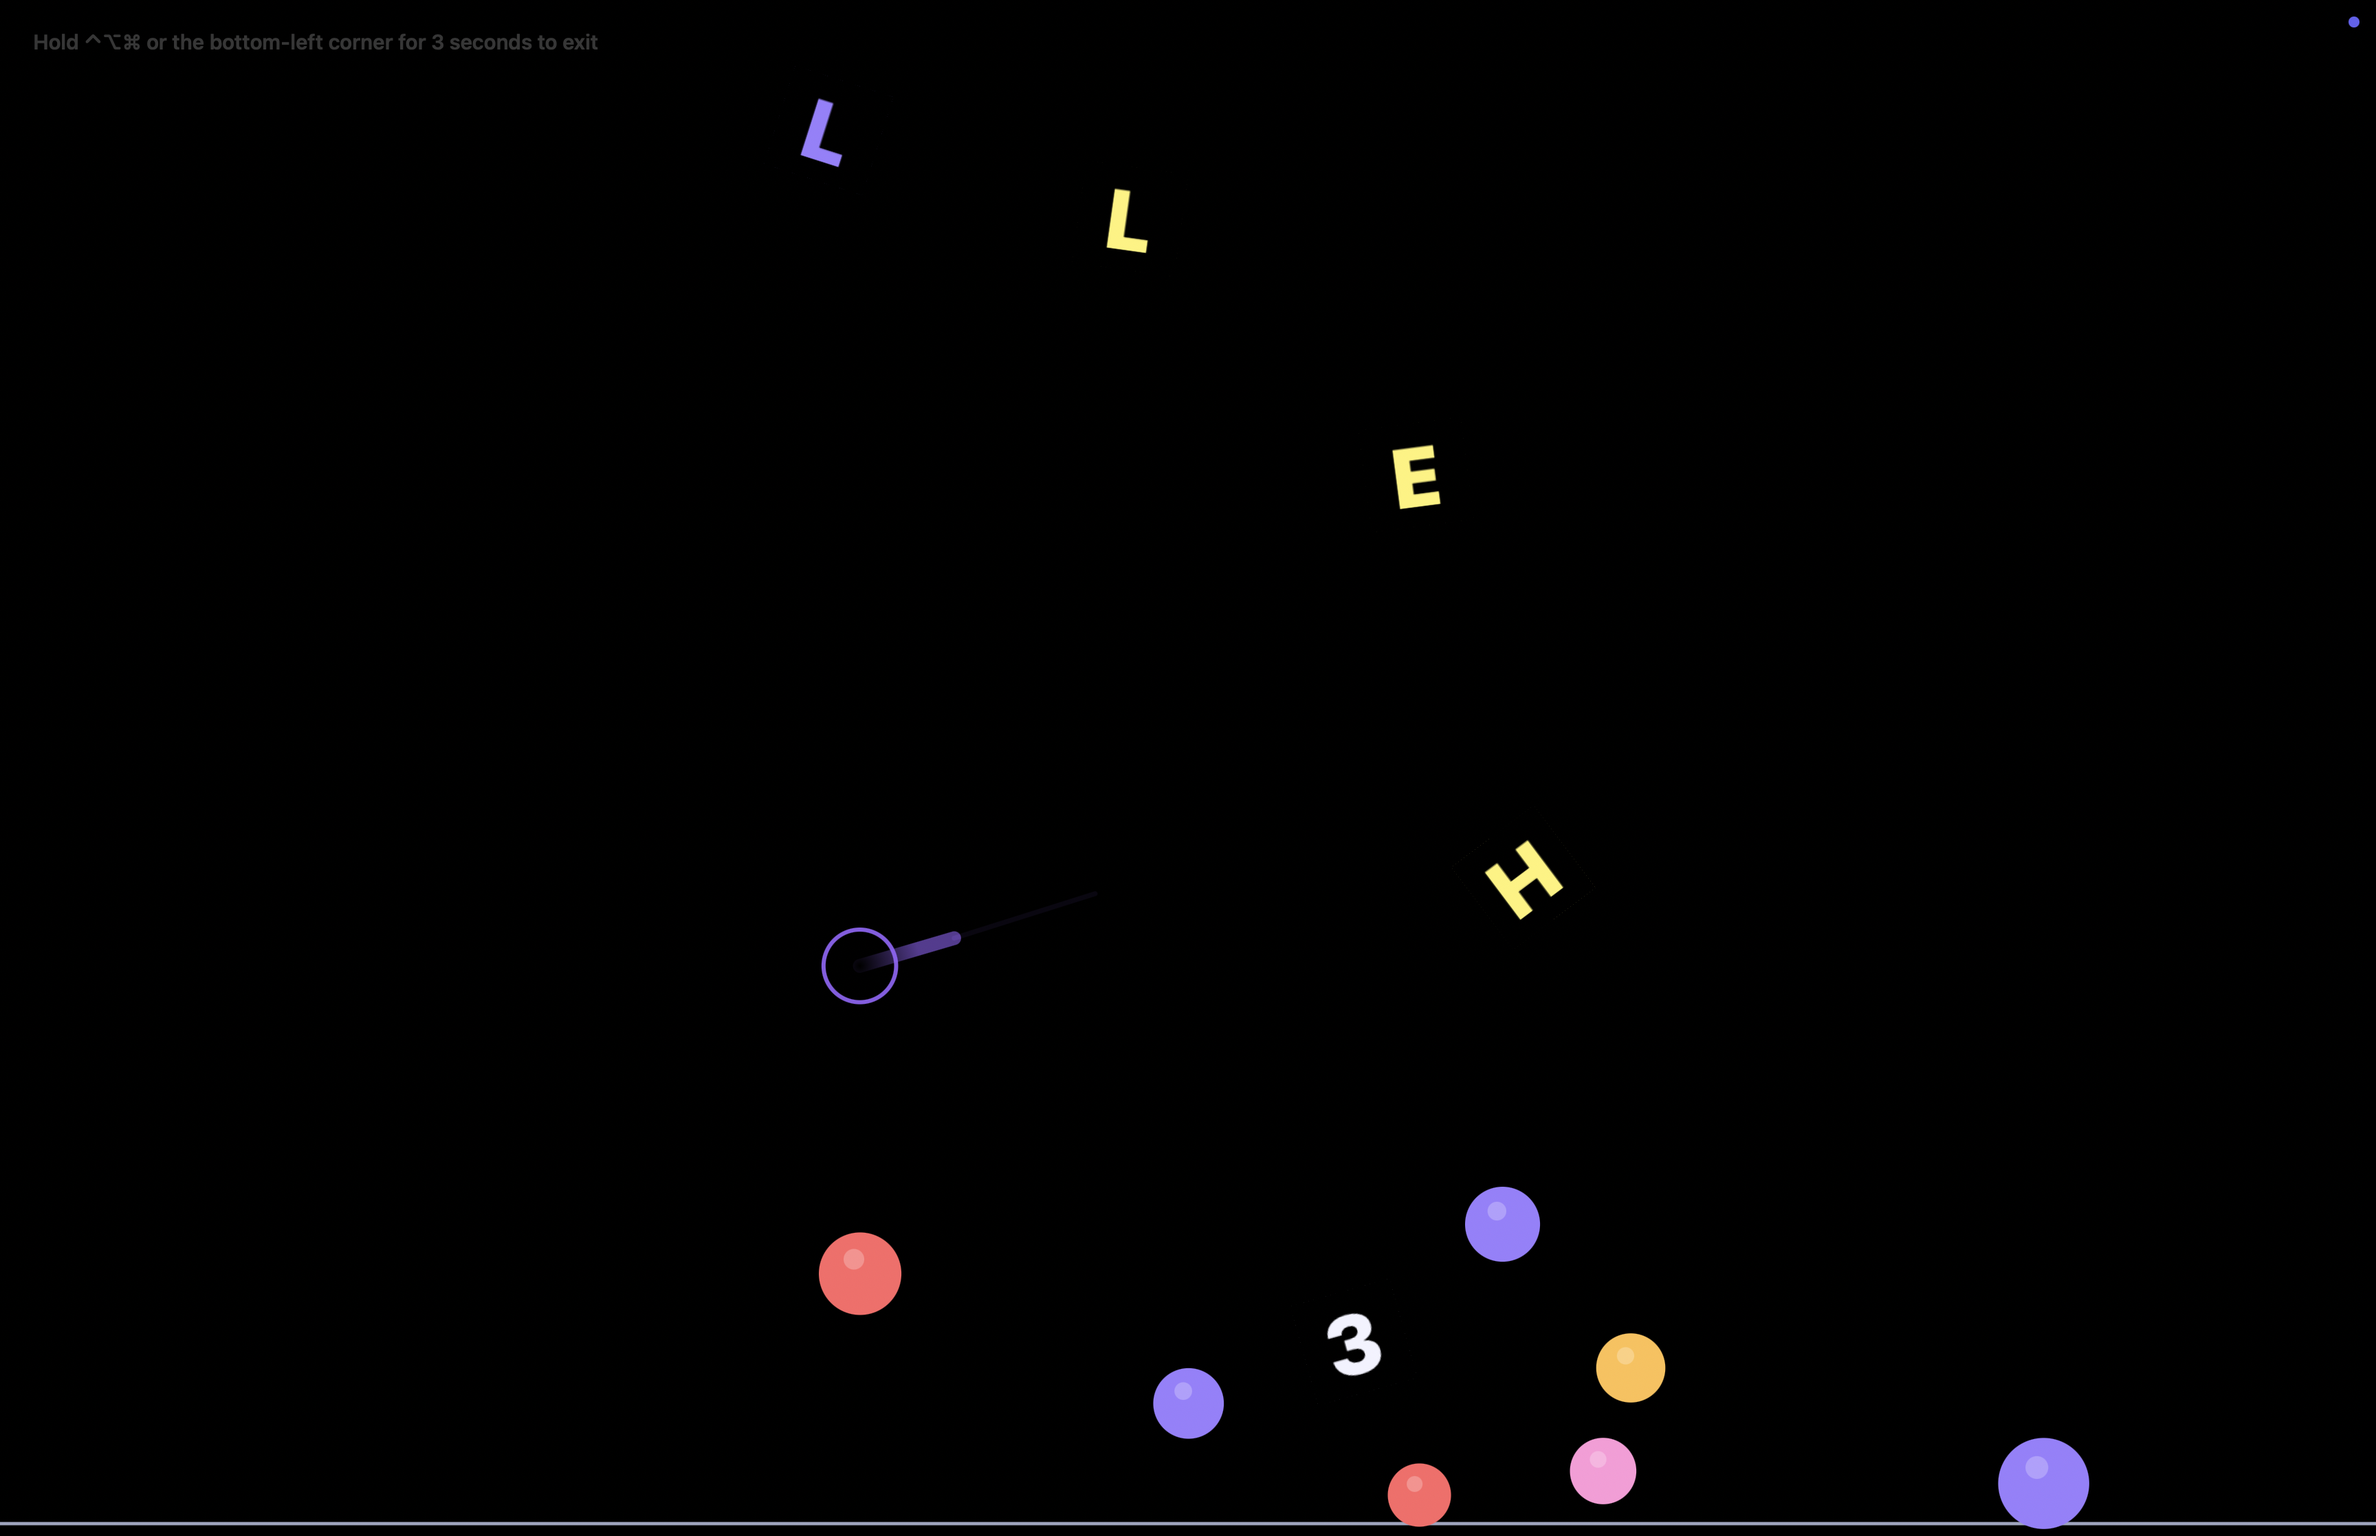
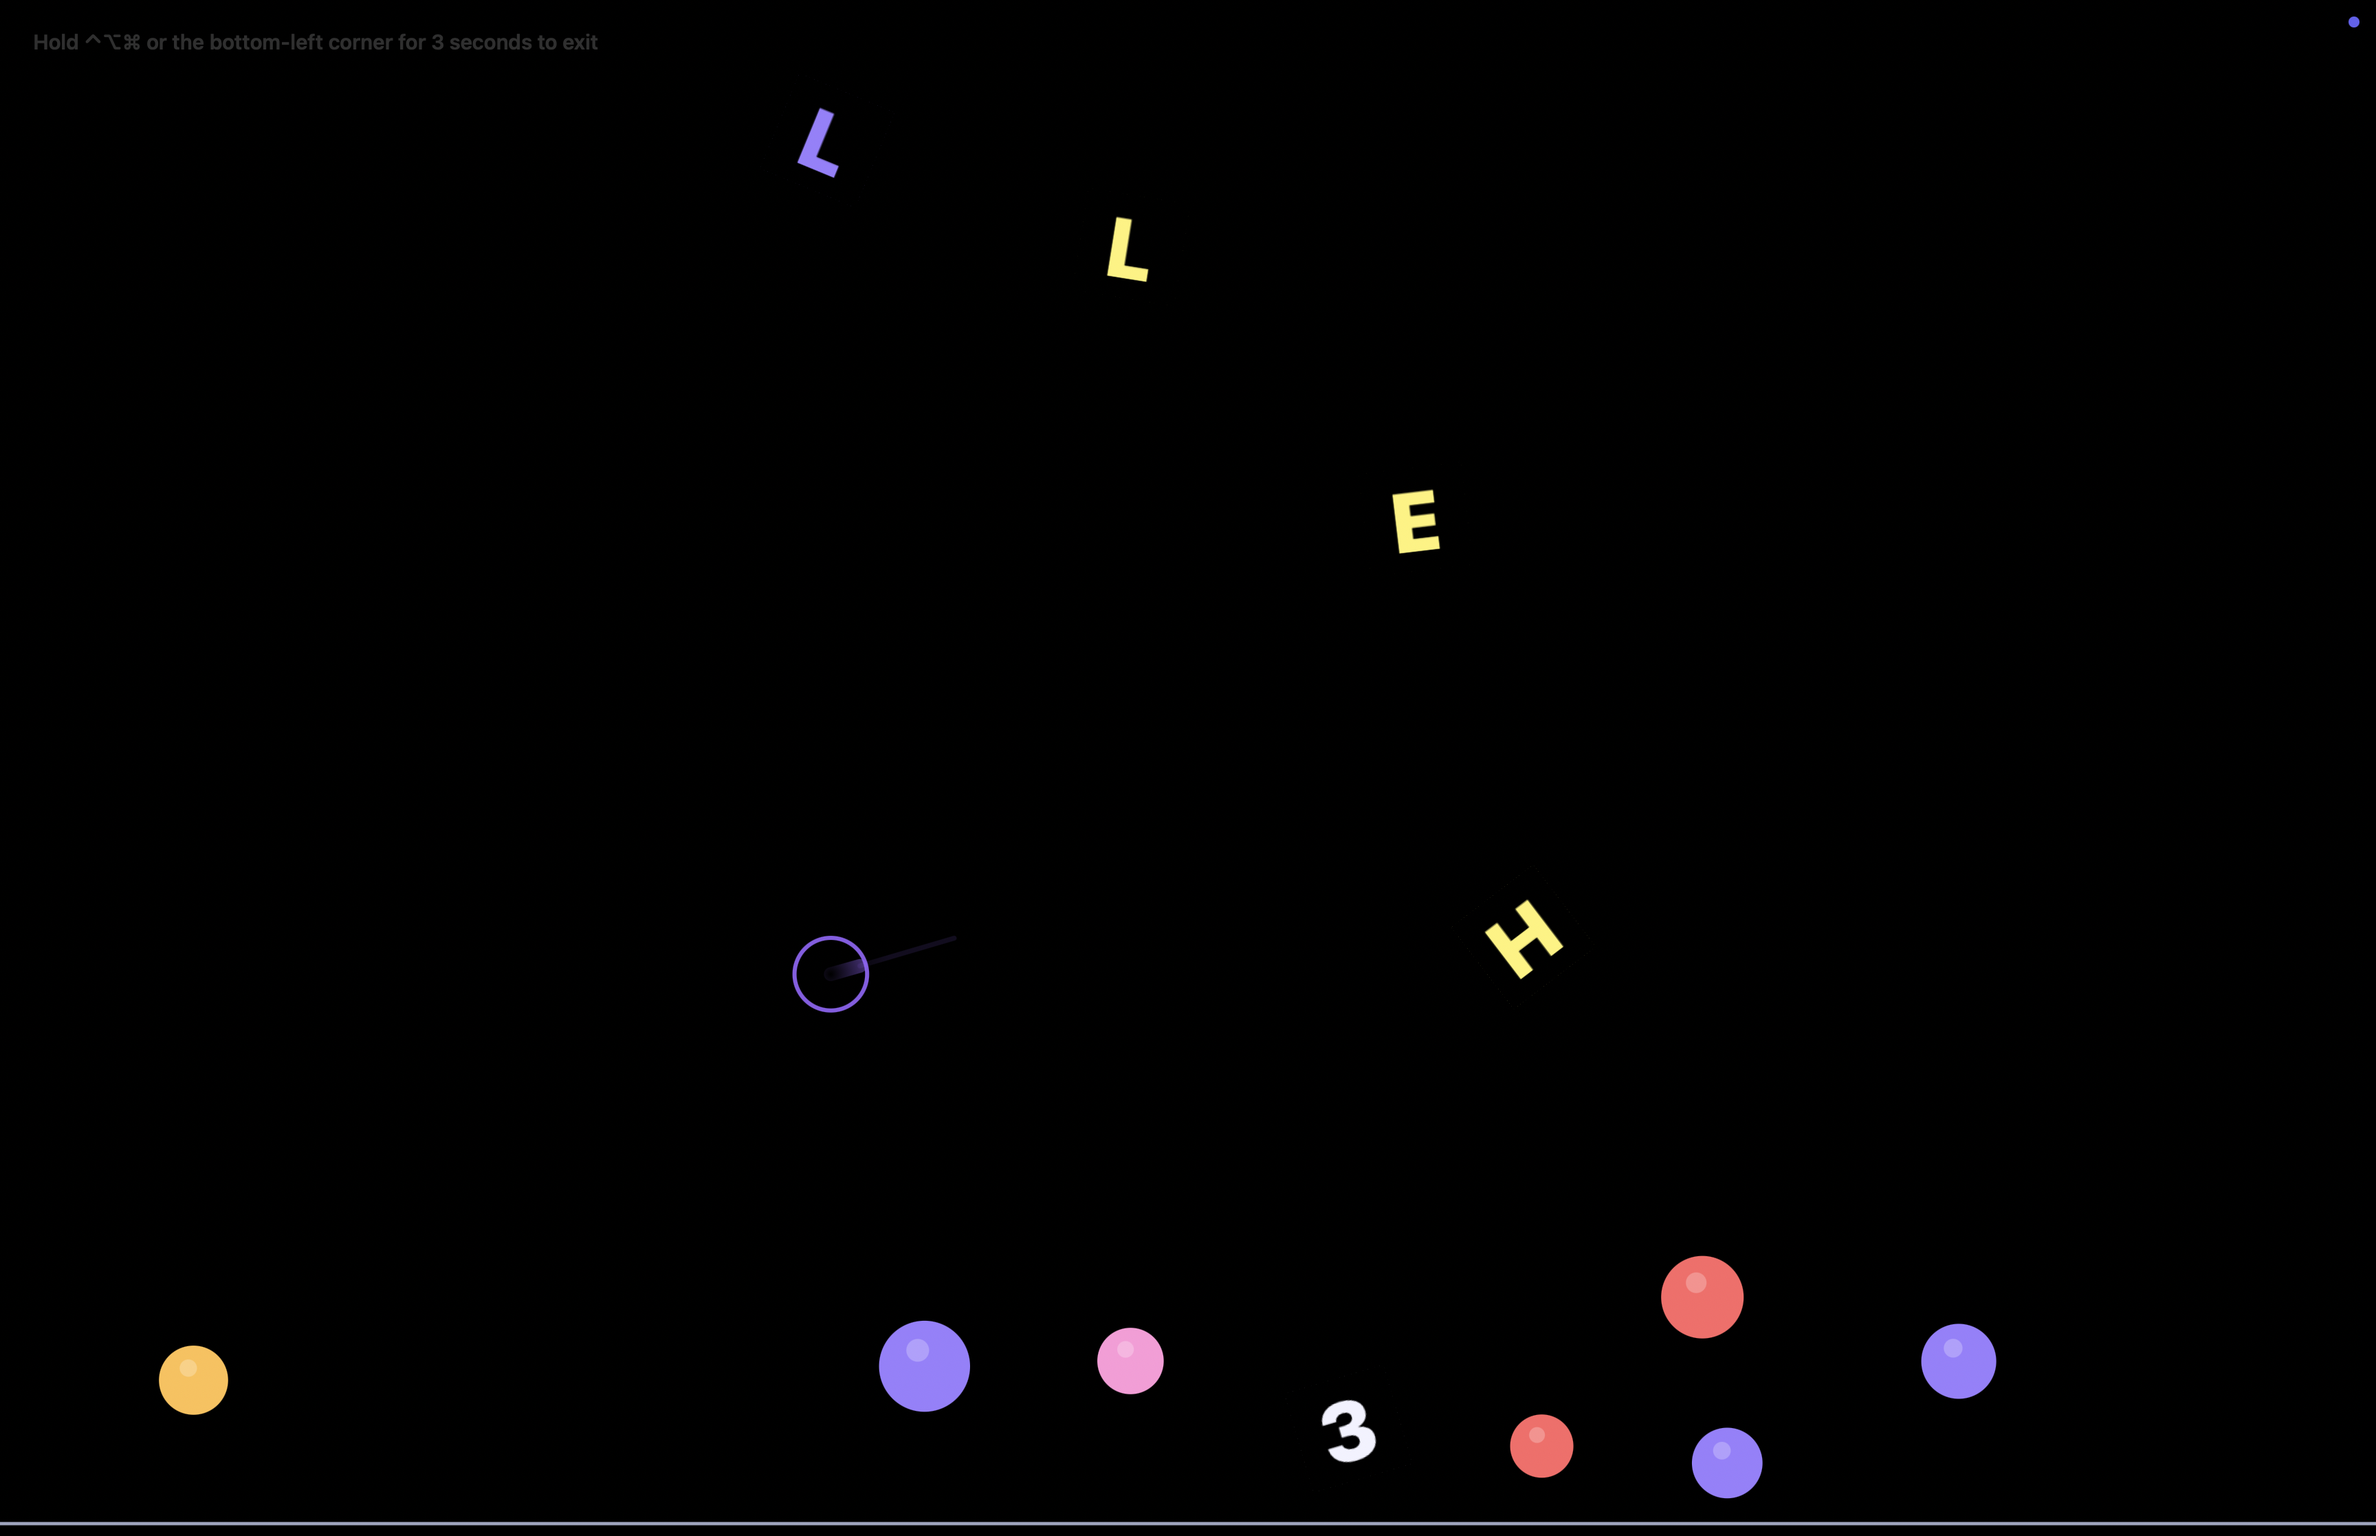
Physics: tractor beam actually lifts — capture field replaces scaled inverse-cube
The hold ramped an inverse-cube attractor whose pull at any real distance
was ~0.1-10 px/s² against 1500 px/s² gravity — multiplying it 9x still
did approximately nothing (user: 'holding does nothing'). The beam is now
its own capture field within 340px: spring pull up to 2900 px/s² (beats
gravity even in heavy-world 1.6x), edge-weighted, with capture damping so
grabbed bodies settle and hover at the hand instead of slingshotting.
Ambient whisper attractor unchanged. Verified: capture frame shows a ball
and a letter held mid-air at the aura while the rest of the pile rests.

diff --git a/Sources/kiddyproof/PhysicsScene.swift b/Sources/kiddyproof/PhysicsScene.swift
@@ -134,10 +134,14 @@ final class PhysicsScene: Scene {
     private func substep(_ h: CGFloat, _ ctx: EffectContext) {
         let floorY = ctx.bounds.minY + 4
         let minX = ctx.bounds.minX, maxX = ctx.bounds.maxX
-        // attractor strength scales with intensity; the TRACTOR BEAM (hold) ramps it
-        // from a whisper to a crane that hoists the pile into the air.
-        let G: CGFloat = 1.2e6 * (0.3 + 0.7 * ctx.intensity) * (1 + 8 * holdLevel)
+        // Ambient attractor (inverse-cube, a whisper). The TRACTOR BEAM is separate:
+        // an inverse-cube force is orders of magnitude below gravity at any real
+        // distance, so scaling it up did nothing — the beam is a capture FIELD whose
+        // pull genuinely beats weight (2900 px/s² vs gravity's 1500), with damping so
+        // grabbed bodies settle into the hand instead of slingshotting past it.
+        let G: CGFloat = 1.2e6 * (0.3 + 0.7 * ctx.intensity)
         let eps2: CGFloat = 64 * 64
+        let beamR: CGFloat = 340
 
         // integrate
         for i in bodies.indices {
@@ -148,6 +152,18 @@ final class PhysicsScene: Scene {
             let f = G / (r2 * sqrt(r2))           // Plummer-softened, bounded
             v.x += d.x * f * h
             v.y += d.y * f * h
+            if holdLevel > 0.05 {
+                let dist = sqrt(hypot2(d))
+                if dist < beamR, dist > 1 {
+                    let edge = 1 - dist / beamR
+                    let pull = 2900 * holdLevel * (0.35 + 0.65 * edge)
+                    v.x += d.x / dist * pull * h
+                    v.y += d.y / dist * pull * h
+                    // capture damping: strongest near the hand, so the clump hovers
+                    let damp = exp(-3.2 * holdLevel * edge * h)
+                    v.x *= damp; v.y *= damp
+                }
+            }
             let sp2 = hypot2(v)
             if sp2 > vMax * vMax { let s = vMax / sqrt(sp2); v.x *= s; v.y *= s }
             bodies[i].vel = v
